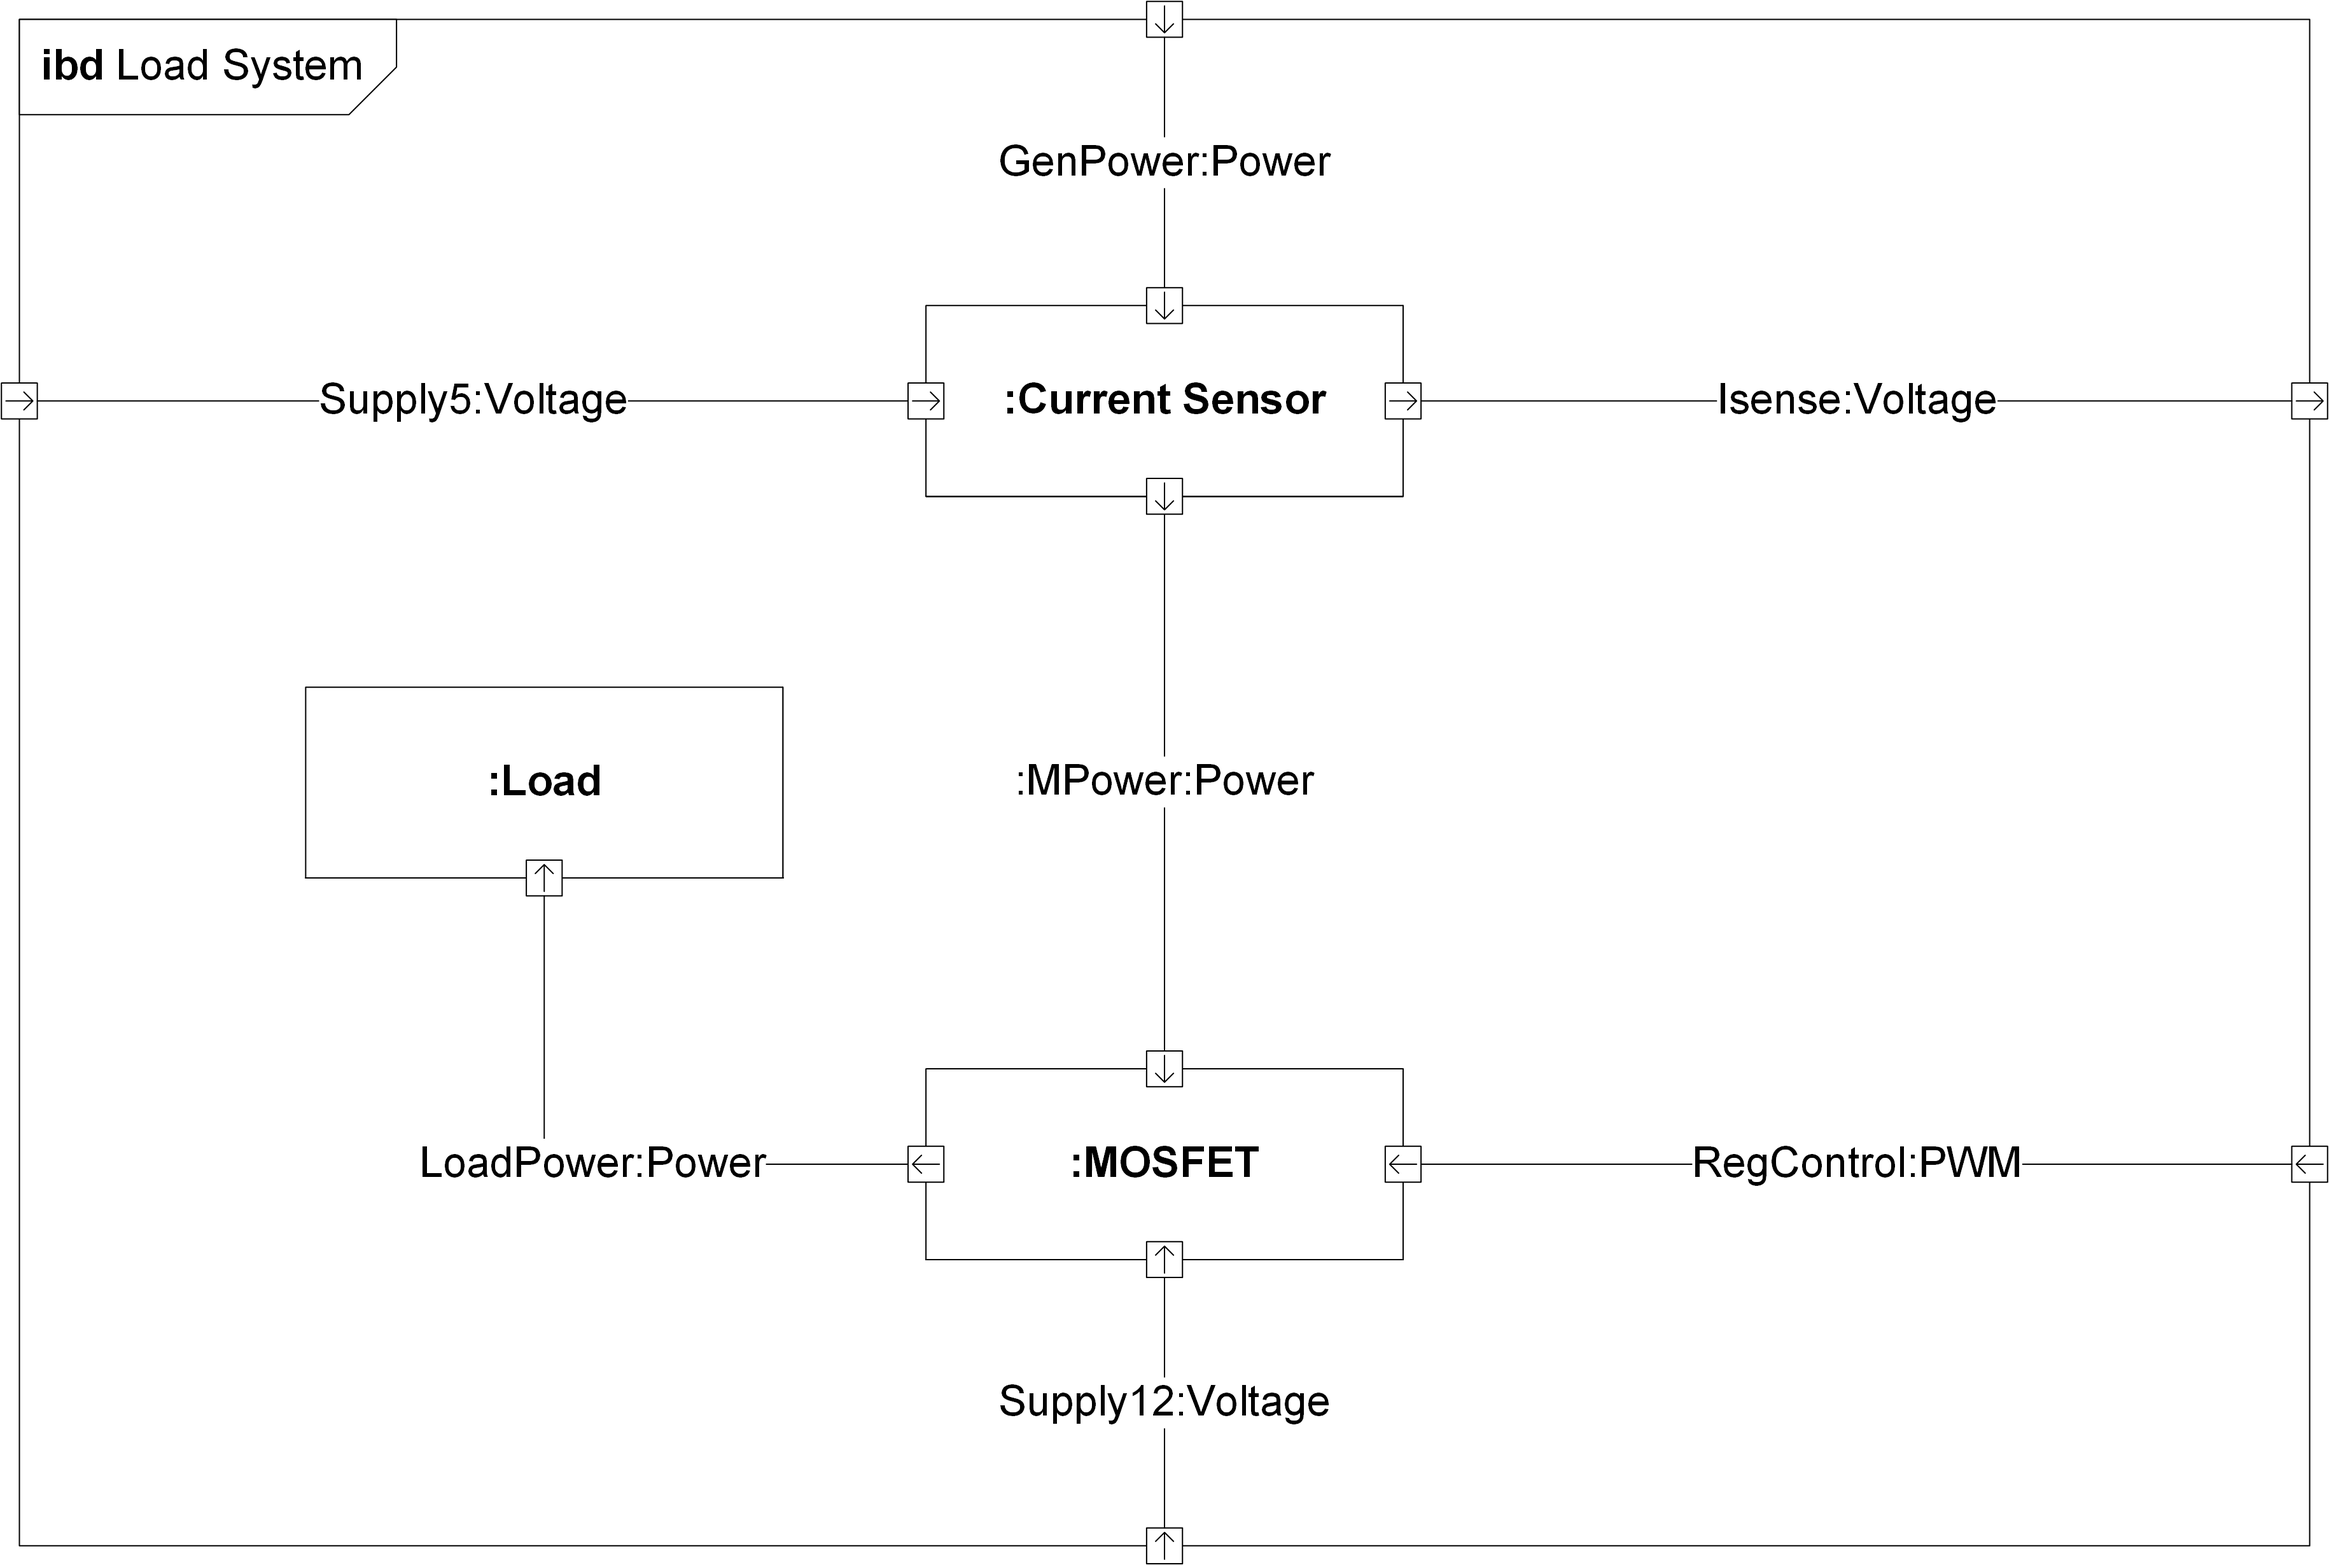
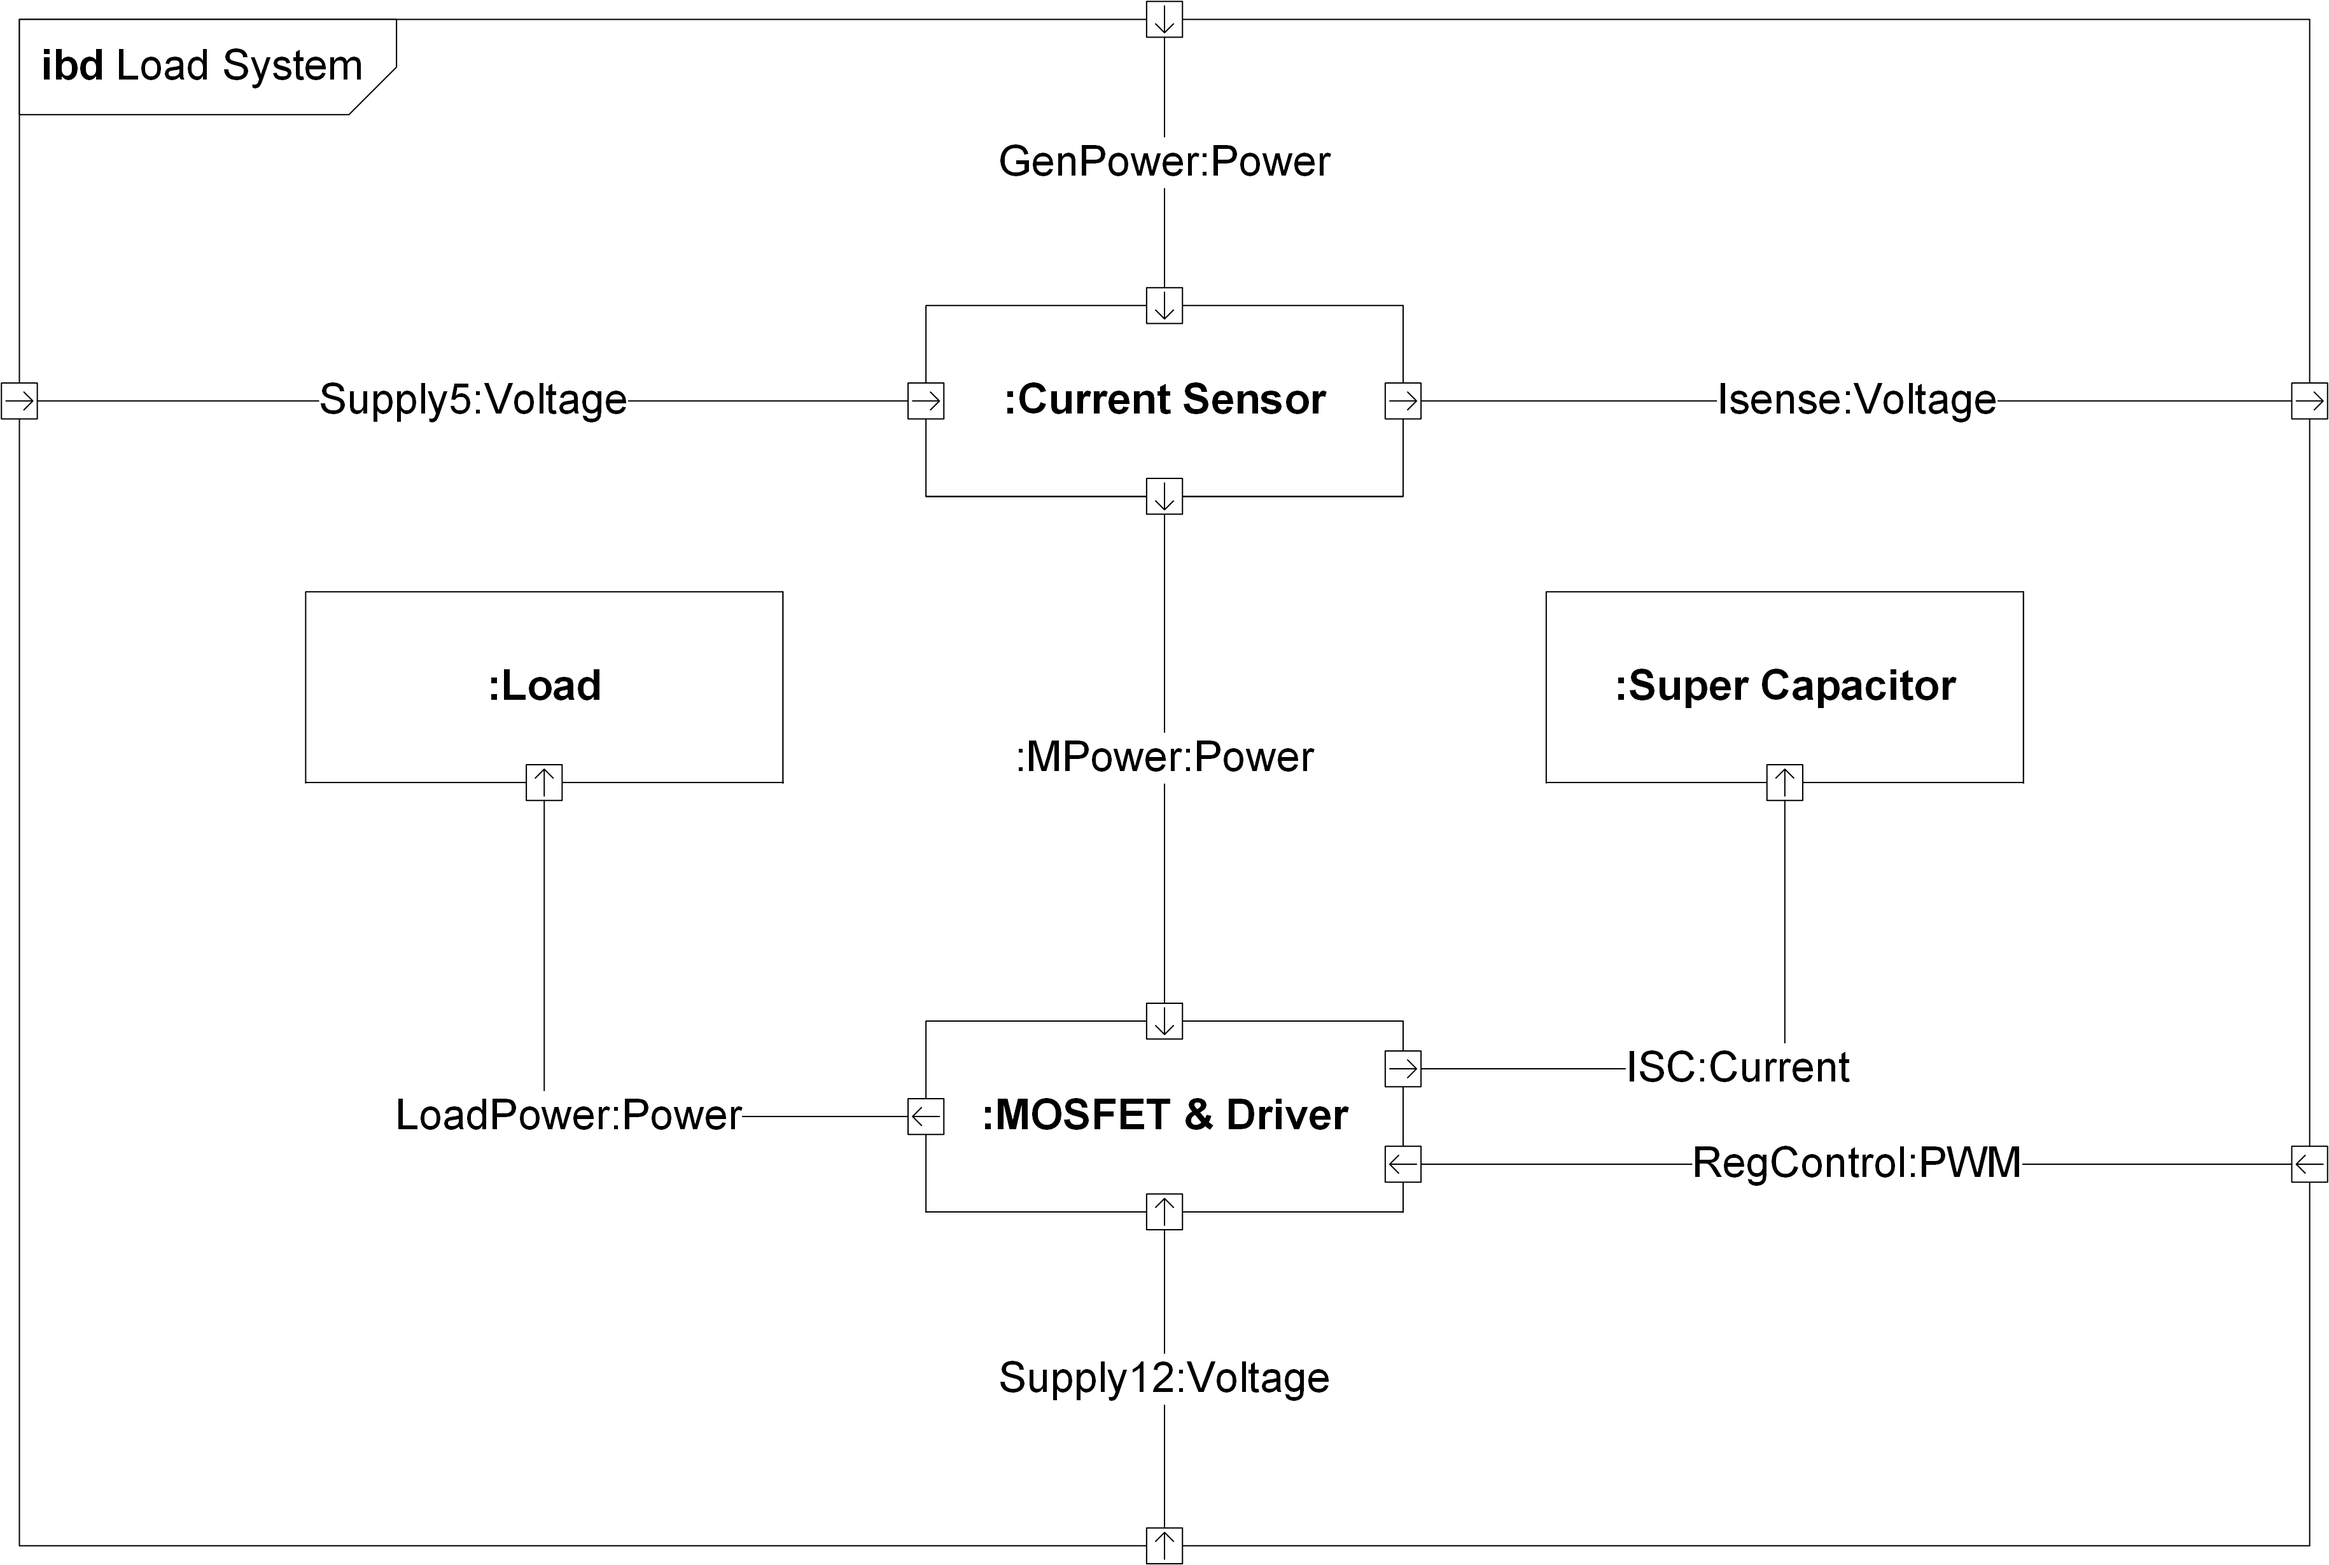
Der sker ting og sager

diff --git a/Latex/Documentation_RR/Hardware/LoadSystem.tex b/Latex/Documentation_RR/Hardware/LoadSystem.tex
@@ -2,8 +2,7 @@
 \section{Load System}
 The purpose of this block is to measure the electrical current generated by the Generator and to control the amount of power delivered to a load.
 
-\subsection{Design}
-Due to the complexity of the Load System
+Due to the complexity of the Load System it's design, implementation and unit test is split according to the IBD below. It should be noted that the Load and the Super Capacitor is located on the Load-plate which.
 
 \begin{figure}[H]
 	\centering
@@ -12,16 +11,10 @@ Due to the complexity of the Load System
 	\label{fig:IBD_Load_System}
 \end{figure}
 
-Text
-
-\textbf{Current Sensor}\\
-Text
-
-\textbf{MOSFET}\\
-Text
-
-\textbf{Load}\\
-The load serves no other function than converting electrical power into heat.
+\input{Hardware/LoadSystem/CurrentSensor}
+\input{Hardware/LoadSystem/MOSFET}
+\input{Hardware/LoadSystem/Load}
+\input{Hardware/LoadSystem/SuperCapacitor}
 
 \subsection{Implementation}
 Text
@@ -32,12 +25,6 @@ Text
 	\caption{Connection between Generator and Load System}
 	\label{fig:Load_System}
 \end{figure}
-
-\textbf{Current Sensor}
-
-\textbf{MOSFET}
-
-\textbf{Load}
 
 \subsection{Unity test}
 Text

diff --git a/Latex/Documentation_RR/Hardware/LoadSystem/CurrentSensor.tex b/Latex/Documentation_RR/Hardware/LoadSystem/CurrentSensor.tex
@@ -1,0 +1,4 @@
+\subsection{Current Sensor}
+The Current Sensor must measure the current from the Generator in order to protect the Load System from electrical overload. The Current Sensor is built using a Hall-effect based current transducer of the type LTS 15-NP. This type of transducer was also used in the Power Sensor design. Like beofore, the transducer is configured in such a way that it is able to measure currents up to $\SI{48}{\ampere}$ with a accuracy of 0.2\%.
+
+The Current Sensor is able to measure currents in the range of $\pm \SI{48}{\ampere}$. This range is simply chosen out of simplicity since a $\SI{15}{\ampere}$ fuse is implemented in series with the sensor.

diff --git a/Latex/Documentation_RR/Hardware/LoadSystem/MOSFET.tex b/Latex/Documentation_RR/Hardware/LoadSystem/MOSFET.tex
@@ -1,0 +1,2 @@
+\subsection{MOSFET and Driver}
+A MOSFET is used to control the amount of power which is delivered to the Load. The MOSFET must be able to handle a big amount of current (44 A) and 

diff --git a/Latex/Documentation_RR/Hardware/LoadSystem/Load.tex b/Latex/Documentation_RR/Hardware/LoadSystem/Load.tex
@@ -1,0 +1,2 @@
+\subsection{Load}
+The Load serves no other function than converting generated electrical energy to thermic energy (heat). This is done by using power resistors.

diff --git a/Latex/Documentation_RR/Hardware/LoadSystem/SuperCapacitor.tex b/Latex/Documentation_RR/Hardware/LoadSystem/SuperCapacitor.tex
@@ -1,0 +1,2 @@
+\subsection{Super Capacitor}
+text
